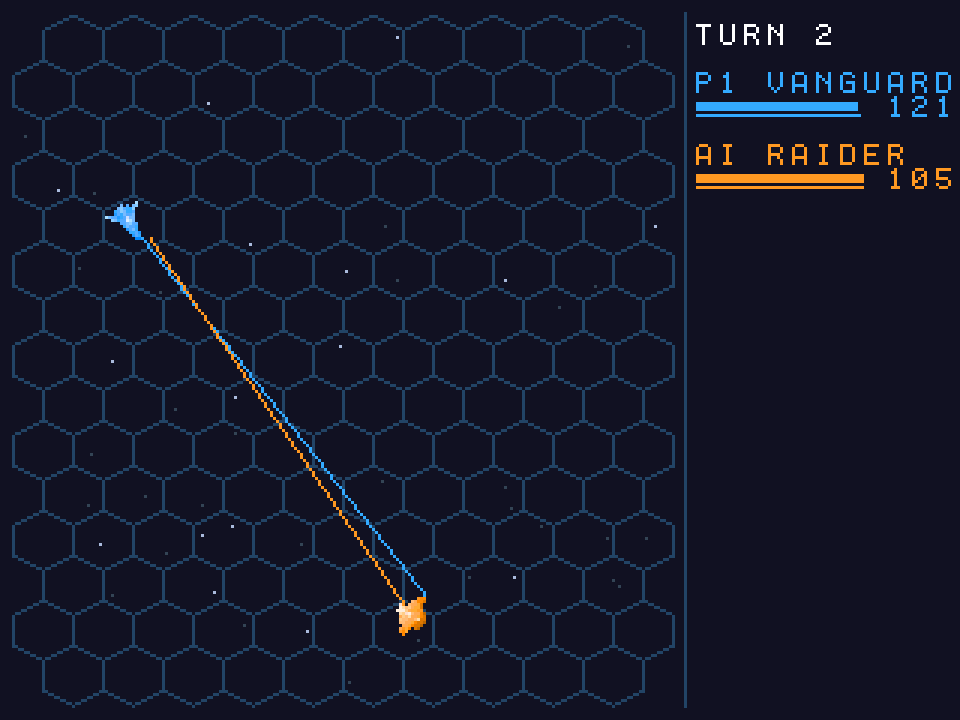
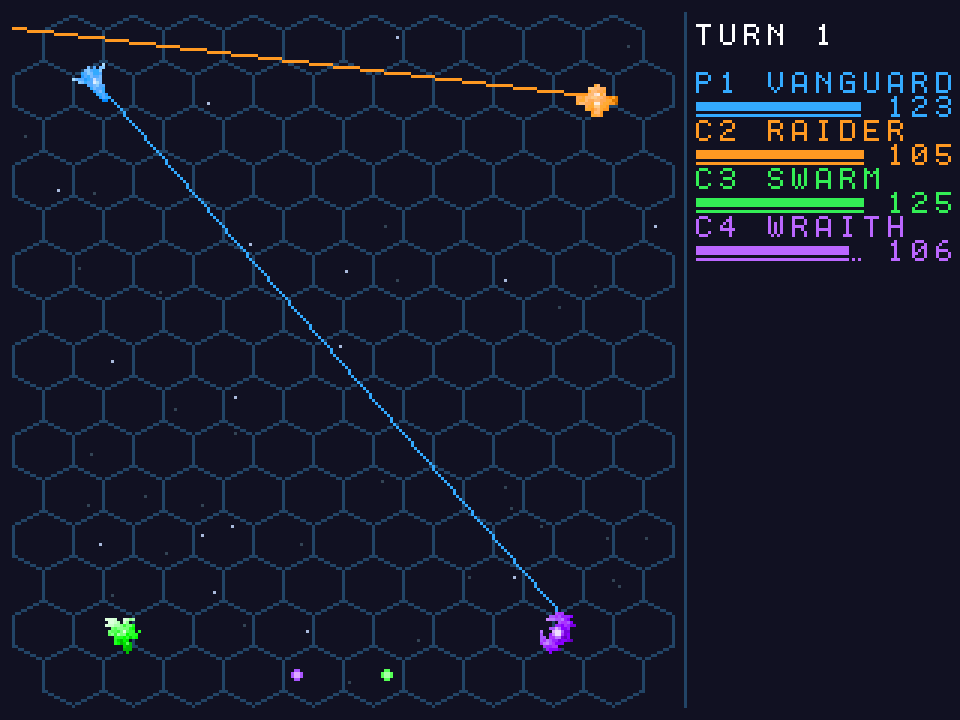
HexFleet's cartridge moves to a618461: up to four ships, people and CPUs in any mix, all against all or in two teams, with a new screenshot (.claude/CLAUDE.md)

diff --git a/src/constants/site.ts b/src/constants/site.ts
@@ -268,10 +268,10 @@ const ALL_CARTRIDGES: Cartridge[] = [
     slug: 'hexfleet',
     name: 'HexFleet',
     author: AUTHORS.jay,
-    description: 'Turn-based starship battles on a hex grid. Everyone plans in secret, then every ship moves and fires at once. Four factions, each with its own special. Take on the CPU, or pass the keyboard to a friend.',
+    description: 'Turn-based starship battles on a hex grid. Everyone plans in secret, then every ship moves and fires at once. Up to four ships, people and CPUs in any mix, all against all or in two teams, with four factions and their specials.',
     screenshot: '/images/6502/hexfleet.png',
     repo: 'https://github.com/jayrdeaton/6502-HexFleet',
-    cart: 'https://raw.githubusercontent.com/jayrdeaton/6502-HexFleet/6a82cf5a2f10276fd0991378b4ae947f95e12f6b/HexFleet.crt',
+    cart: 'https://raw.githubusercontent.com/jayrdeaton/6502-HexFleet/a6184617b67147627a52a3b887773f4cff9dd17d/HexFleet.crt',
     vdp: 'picovdp',
     controls: [
       { keys: 'Arrow keys or WASD', action: 'Move the cursor, and change options on the title screen' },

diff --git a/.claude/CLAUDE.md b/.claude/CLAUDE.md
@@ -73,7 +73,7 @@ The mark is the Infinite Token rings (Jay's call over Expo-Starter's diamond, wh
 - The carts load from raw.githubusercontent.com pinned to a commit (it sends `Access-Control-Allow-Origin: *`, which the emulator's cross-origin fetch needs). When a cart changes, update its SHA in `site.ts`. Verified 2026-10-17: all four boot in the hosted embed and LightCycles plays.
 - **Wizards Lab** (added 2026-10-17, Jay's call) is A.C. Wright's (Aaron's) game, not Jay's: `acwright/WIZARDSLAB`, MIT, its `AC6502/WizardsLab.crt` (a 32 KB image of the 16 KB game) pinned to commit 59ed3d6. Every game credits its author (2026-10-17, Jay: if Aaron is credited, so is he): `author` is required on all three game types, from `AUTHORS` in `site.ts` (Jay linked to jaydeaton.com, Aaron to acwrightdesign.com, the site his GitHub profile lists), drawn by `src/components/GameByline.vue` under every card's name and every 6502 page's title, and named in the page's About. Infinite Token is shared with Aaron, who made the AC6502 the other carts run on. Never edit his repo from here. The 6502 cards are three across from `lg`, like the others.
 - **Order and hidden carts (2026-10-22, Jay):** Wizards Lab is the first cart, and Jay's follow alphabetically (2026-11-18). Pong is hidden for now, not fully fleshed out: its entry stays in `ALL_CARTRIDGES` with `hidden: true`, and `CARTRIDGES` (what the home page, the 6502 pages, the support page and the prerender list read) leaves it out, so `/6502/pong` 404s. Drop the flag to bring it back, and check its pinned SHA first.
-- **HexFleet (2026-11-18):** the first cart here on the PICOVDP, a 128 KB Flash Cart from `jayrdeaton/6502-HexFleet`, so its entry sets `vdp: 'picovdp'` (the embed then boots BIOS 2.0). Verified in the hosted embed with sound off: it boots and plays full turns against the CPU. Its Link mode needs two machines joined by a serial cable, so the description offers only the CPU and passing the keyboard. The page's About says "cartridge", not "ROM cartridge", since this one is flash. Its screenshot is a turn 2 frame with both lasers firing, captured the same way as LightCycles'.
+- **HexFleet (2026-11-18):** the first cart here on the PICOVDP, a 128 KB Flash Cart from `jayrdeaton/6502-HexFleet`, so its entry sets `vdp: 'picovdp'` (the embed then boots BIOS 2.0). Verified in the hosted embed with sound off: it boots and plays full turns against the CPU. The same day's second version (a618461) added up to four ships, people and CPUs in any mix, all against all or in two teams. Its Link mode needs two machines joined by a serial cable, so the description leaves it out. The page's About says "cartridge", not "ROM cartridge", since this one is flash. Its screenshot is a turn 1 frame of the four-ship battle with lasers firing, captured the same way as LightCycles'.
 - Screenshots in `public/images/6502/` are 320x240 emulator captures scaled 3x with nearest-neighbor (960x720, ~15 KB each), shown with plain smooth scaling. The cards draw them at ~180px on desktop, and `image-rendering: pixelated` dropped whole rows of pixels shrinking a 320px image, which erased LightCycles' 1px trails and Snake's and Pong's score lines; a large, crisp source the browser shrinks smoothly keeps them. Scale any new capture the same way (headless Chrome's canvas with `imageSmoothingEnabled = false`; there's no image library on this Mac). Snake's and Pong's are their repos' screenshots; LightCycles' is a mid-game frame (2026-10-17), taken from the hosted embed's canvas by driving headless Chrome over the DevTools protocol (start a round with Space, steer with WASD, then `canvas.toDataURL()`), because the repo's only capture was the "PLAYER 2 WINS" screen.
 
 ## Deploy
